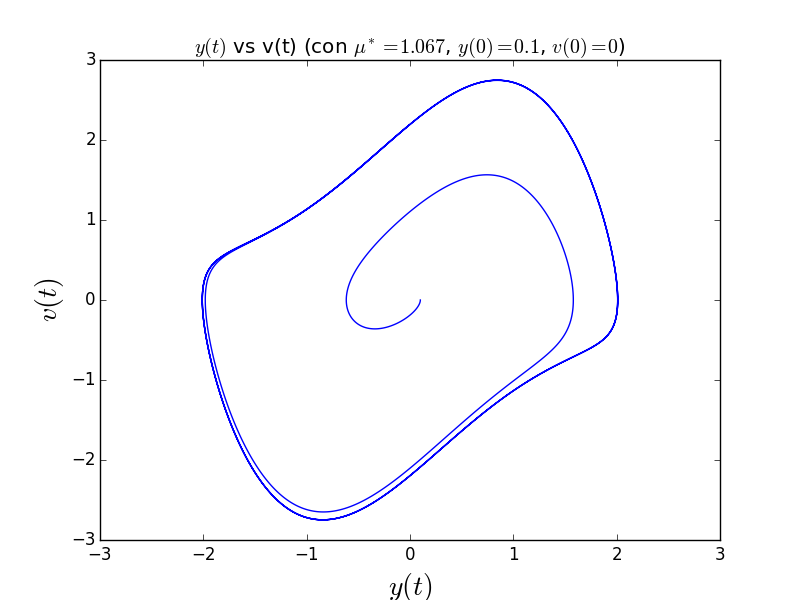
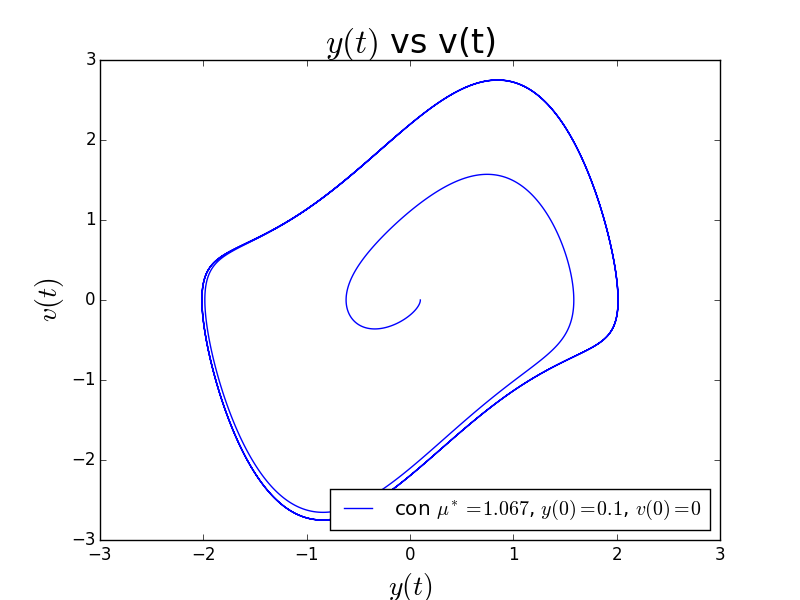
Corregido bug

diff --git a/tarea03.py b/tarea03.py
@@ -7,7 +7,6 @@ import matplotlib.pyplot as plt
 from scipy.integrate import ode             #para parte 2
 from mpl_toolkits.mplot3d import Axes3D     #para parte 2
 
-
 #Algunos Parametros de la parte 1
 mu=1.067 #RUT=19.077.067-2
 
@@ -54,13 +53,19 @@ def get_k2(y_n, v_n, h, vdp):
     vdp_n= vdp(y_n+k1[0]/2., v_n+k1[1]/2.)
     return h*vdp_n[0], h*vdp_n[1]
 
-def rk3_step(y_n, v_n, h, f):
+def get_k3(y_n, v_n, h, vdp):
+    k1 = get_k1(y_n, v_n, h, vdp)
+    k2 = get_k2(y_n, v_n, h, vdp)
+    vdp_n= vdp(y_n-k1[0]-2*k2[0], v_n-k1[1]-2*k2[1])
+    return h*vdp_n[0], h*vdp_n[1]
+
+def rk3_step(y_n, v_n, h, vdp):
     '''
     Vital, le entregamos y_n y nos devuelve el y_{n+1}
     '''
-    k1 = get_k1(y_n, v_n, h, f)
-    k2 = get_k2(y_n, v_n, h, f)
-    k3 = get_k2(y_n, v_n, h, f)
+    k1 = get_k1(y_n, v_n, h, vdp)
+    k2 = get_k2(y_n, v_n, h, vdp)
+    k3 = get_k3(y_n, v_n, h, vdp)
 
     y_n1 = y_n+(k1[0]+4*k2[0]+k3[0])/6.0
     v_n1 = v_n+(k1[1]+4*k2[1]+k3[1])/6.0
@@ -77,7 +82,13 @@ def ecuacionlorentz(t, r):  #para la parte 2
     dz= r[0]*r[1]- beta*r[2]       #dz
     return [dx,dy,dz]
 
-'''
+###############################################
+###############################################
+####################PARTE 1####################
+###############################################
+###############################################
+
+
 ######################################
 #se setean las condiciones iniciales #
 ######################################
@@ -94,17 +105,19 @@ for i in range(n_steps-1):
     v= np.append(v,sig[1])
 
 plt.figure(1)
-plt.plot(tiempo,y)
+plt.plot(tiempo,y, label='con $\mu^*$= 1.067, $y(0)=0.1$, $v(0)=0$')
 plt.xlabel('$t[s]$', fontsize=20)
 plt.ylabel('$y(t)$', fontsize=20)
-plt.title('$y(t)$ vs t (con $\mu^*$= 1.067, $y(0)=0.1$, $v(0)=0$)', fontsize=24)
+plt.legend(loc=4)
+plt.title('$y(t)$ vs t', fontsize=24)
 plt.savefig('y_vs_t_01.png')
 
 plt.figure(2)
-plt.plot(y,v)
+plt.plot(y,v, label='con $\mu^*= 1.067$, $y(0)=0.1$, $v(0)=0$')
 plt.xlabel('$y(t)$', fontsize=20)
 plt.ylabel('$v(t)$', fontsize=20)
-plt.title('$y(t)$ vs v(t) (con $\mu^*= 1.067$, $y(0)=0.1$, $v(0)=0$)', fontsize=24)
+plt.legend(loc=4)
+plt.title('$y(t)$ vs v(t)', fontsize=24)
 plt.savefig('y_vs_v_01.png')
 
 ########################################
@@ -119,22 +132,24 @@ for i in range(n_steps-1):
     v= np.append(v,sig[1])
 
 plt.figure(3)
-plt.plot(tiempo,y)
+plt.plot(tiempo,y, label='con $\mu^*$= 1.067, $y(0)=4.0$, $v(0)=0$')
 plt.xlabel('$t[s]$', fontsize=20)
 plt.ylabel('$y(t)$', fontsize=20)
-plt.title('$y(t)$ vs t (con $\mu^*$= 1.067, $y(0)=4.0$, $v(0)=0$)', fontsize=24)
+plt.title('$y(t)$ vs t', fontsize=24)
+plt.legend(loc=4)
 plt.savefig('y_vs_t_40.png')
 
 plt.figure(4)
-plt.plot(y,v)
+plt.plot(y,v, label='con $\mu^*= 1.067$, $y(0)=4.0$, $v(0)=0$')
 plt.xlabel('$y(t)$', fontsize=20)
 plt.ylabel('$v(t)$', fontsize=20)
-plt.title('$y(t)$ vs v(t) (con $\mu^*= 1.067$, $y(0)=4.0$, $v(0)=0$)', fontsize=24)
+plt.legend(loc=4)
+plt.title('$y(t)$ vs v(t)', fontsize=24)
 plt.savefig('y_vs_v_40.png')
 
 plt.show()
 plt.draw()
-'''
+
 '''
 convertir esto en funcion si queda tiempo ^
 '''
